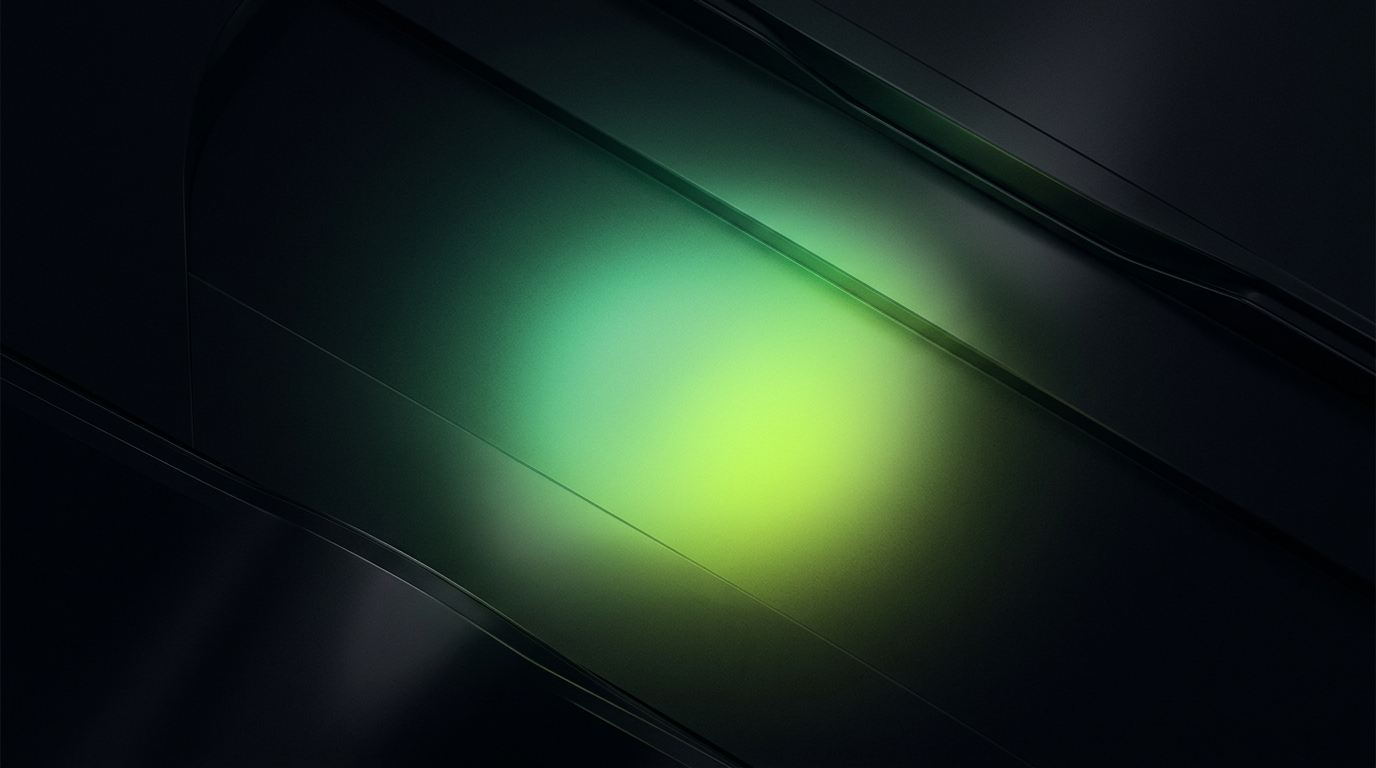
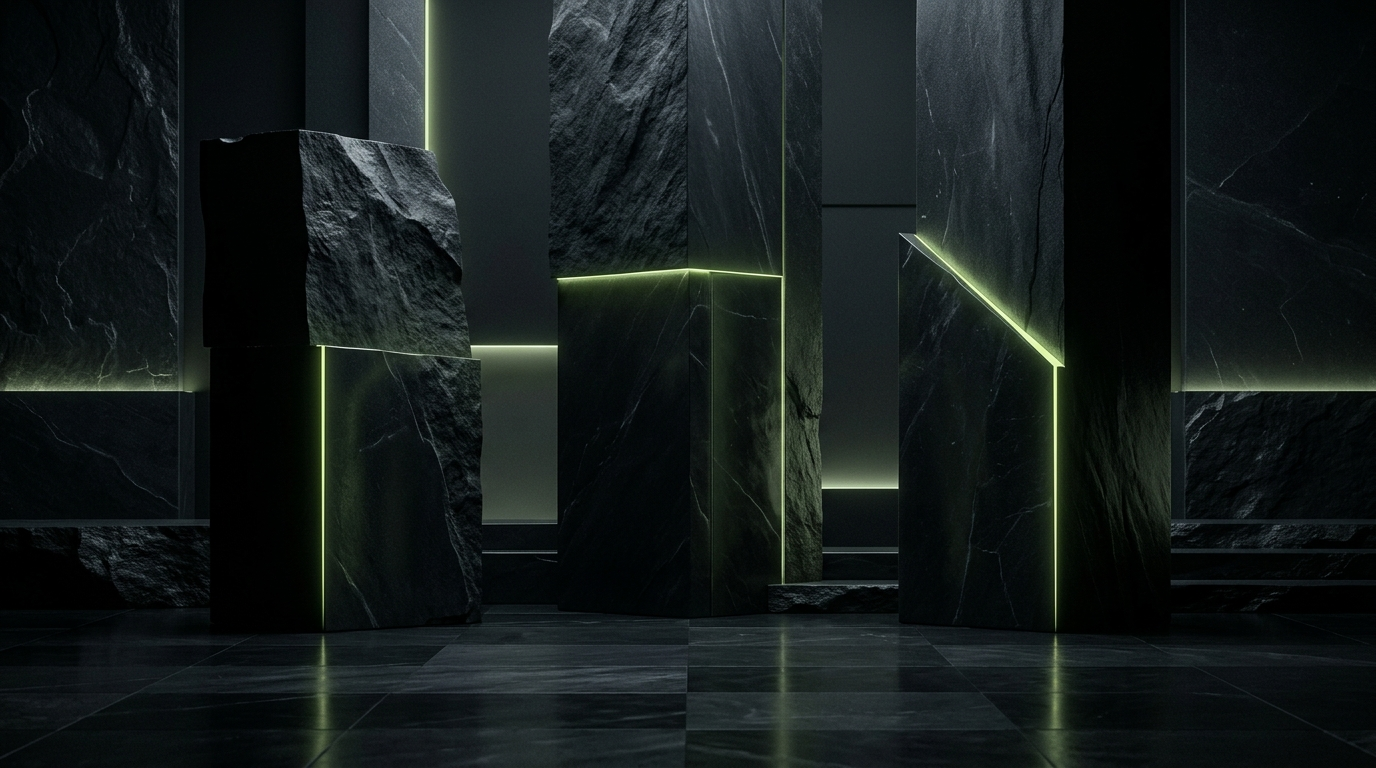
feat(pricing): apply luxury stone monolith backdrop with 3-day trial and clean typography

diff --git a/src/components/landing/PricingSection.tsx b/src/components/landing/PricingSection.tsx
@@ -68,9 +68,9 @@ export function PricingSection() {
           src="/trajetta-pricing-bg.jpg"
           alt={isEn ? "Trajetta Pro Atmosphere" : "Atmosfera Trajetta Pro"}
           loading="lazy"
-          className="absolute inset-0 w-full h-full object-cover opacity-35 pointer-events-none mix-blend-screen"
+          className="absolute inset-0 w-full h-full object-cover opacity-60 pointer-events-none mix-blend-screen"
         />
-        <div className="absolute inset-0 bg-gradient-to-t from-[#060709] via-[#060709]/80 to-[#060709]/90" />
+        <div className="absolute inset-0 bg-gradient-to-t from-[#060709] via-[#060709]/75 to-[#060709]/85" />
       </div>
 
       <div className="absolute top-1/2 left-1/2 -translate-x-1/2 -translate-y-1/2 w-[600px] sm:w-[850px] h-[500px] bg-[#B8FF00]/10 rounded-full blur-[140px] pointer-events-none" />
@@ -83,7 +83,7 @@ export function PricingSection() {
           <div className="inline-flex items-center gap-2 px-3.5 py-1.5 rounded-full bg-[#14181F] border border-[#B8FF00]/30 shadow-[0_0_15px_rgba(184,255,0,0.1)]">
             <span className="w-2 h-2 rounded-full bg-[#B8FF00] animate-pulse" />
             <span className="text-[11px] font-mono font-medium uppercase tracking-wider text-[#B8FF00]">
-              {isEn ? 'Investment in Your Trajectory' : 'Investimento na Sua Trajetória'}
+              {isEn ? 'Investment in Your Trajectory • 3-Day Free Trial' : 'Investimento na Sua Trajetória • 3 Dias de Teste Grátis'}
             </span>
           </div>
 
@@ -94,8 +94,8 @@ export function PricingSection() {
 
           <p className="text-sm sm:text-base text-[#8E9499] leading-relaxed max-w-xl mx-auto font-normal [text-wrap:pretty]">
             {isEn
-              ? 'Unrestricted access to all tools. Plan your week, test Trajetta AI, and experience true mental clarity. Cancel with 1 click anytime.'
-              : 'Acesso irrestrito a todas as ferramentas. Planeje sua semana, teste a Trajetta AI e viva a clareza mental do seu sistema de vida. Cancele com 1 clique a qualquer momento.'}
+              ? 'Start now with 3 days of free trial. Unrestricted access to all tools: test Trajetta AI, plan your week, and feel mental clarity before any charge. Cancel with 1 click anytime.'
+              : 'Comece agora com 3 dias de degustação gratuita. Acesso irrestrito a todas as ferramentas: teste a Trajetta AI, planeje sua semana e sinta a clareza mental antes de qualquer cobrança. Cancele com 1 clique a qualquer momento.'}
           </p>
         </div>
 
@@ -105,7 +105,7 @@ export function PricingSection() {
             {/* Top Monumental Badge */}
             <div className="absolute -top-3.5 left-1/2 -translate-x-1/2 px-4 py-1 rounded-full bg-[#B8FF00] text-[#060709] text-[11px] font-semibold tracking-tight uppercase shadow-[0_0_15px_rgba(184,255,0,0.3)] whitespace-nowrap flex items-center gap-1.5">
               <Zap size={13} className="fill-[#060709] text-[#060709]" />
-              <span>{isEn ? 'Immediate Access • Full Unlocked' : 'Liberação Imediata • Acesso Completo'}</span>
+              <span>{isEn ? '3 Days Free Trial • Full Access' : '3 Dias de Degustação Grátis • Acesso Completo'}</span>
             </div>
 
             {/* Plan Header & Pricing */}
@@ -139,7 +139,7 @@ export function PricingSection() {
                     <span className="text-xs font-mono text-[#8E9499]">{isEn ? '/mo' : '/mês'}</span>
                   </div>
                   <p className="text-[11px] text-[#B8FF00] font-medium mt-1">
-                    {isEn ? '✓ Immediate access unlocked right after confirmation' : '✓ Acesso imediato liberado logo após confirmação'}
+                    {isEn ? '✓ 3 days free trial • R$ 0.00 charged today' : '✓ 3 dias de degustação gratuita • R$ 0,00 cobrado hoje'}
                   </p>
                 </div>
 
@@ -186,7 +186,7 @@ export function PricingSection() {
                   </span>
                 ) : (
                   <>
-                    <span>{isEn ? 'Get Trajetta Pro Now' : 'Assinar Trajetta Pro Agora'}</span>
+                    <span>{isEn ? 'Start 3-Day Free Trial • Get Pro' : 'Começar 3 Dias Grátis • Assinar Pro'}</span>
                     <ArrowRight className="w-4 h-4" />
                   </>
                 )}
@@ -198,8 +198,8 @@ export function PricingSection() {
                   className="text-xs text-[#8E9499] hover:text-[#B8FF00] transition-colors underline underline-offset-4 font-normal"
                 >
                   {isEn
-                    ? 'Prefer to sign up without a card first? Create quick account'
-                    : 'Ou prefere se cadastrar sem cartão primeiro? Criar conta rápida'}
+                    ? 'Prefer to create your account directly without a card first? Sign up in 10s'
+                    : 'Prefere criar sua conta direta sem cartão primeiro? Cadastre-se em 10s'}
                 </Link>
               </div>
 
